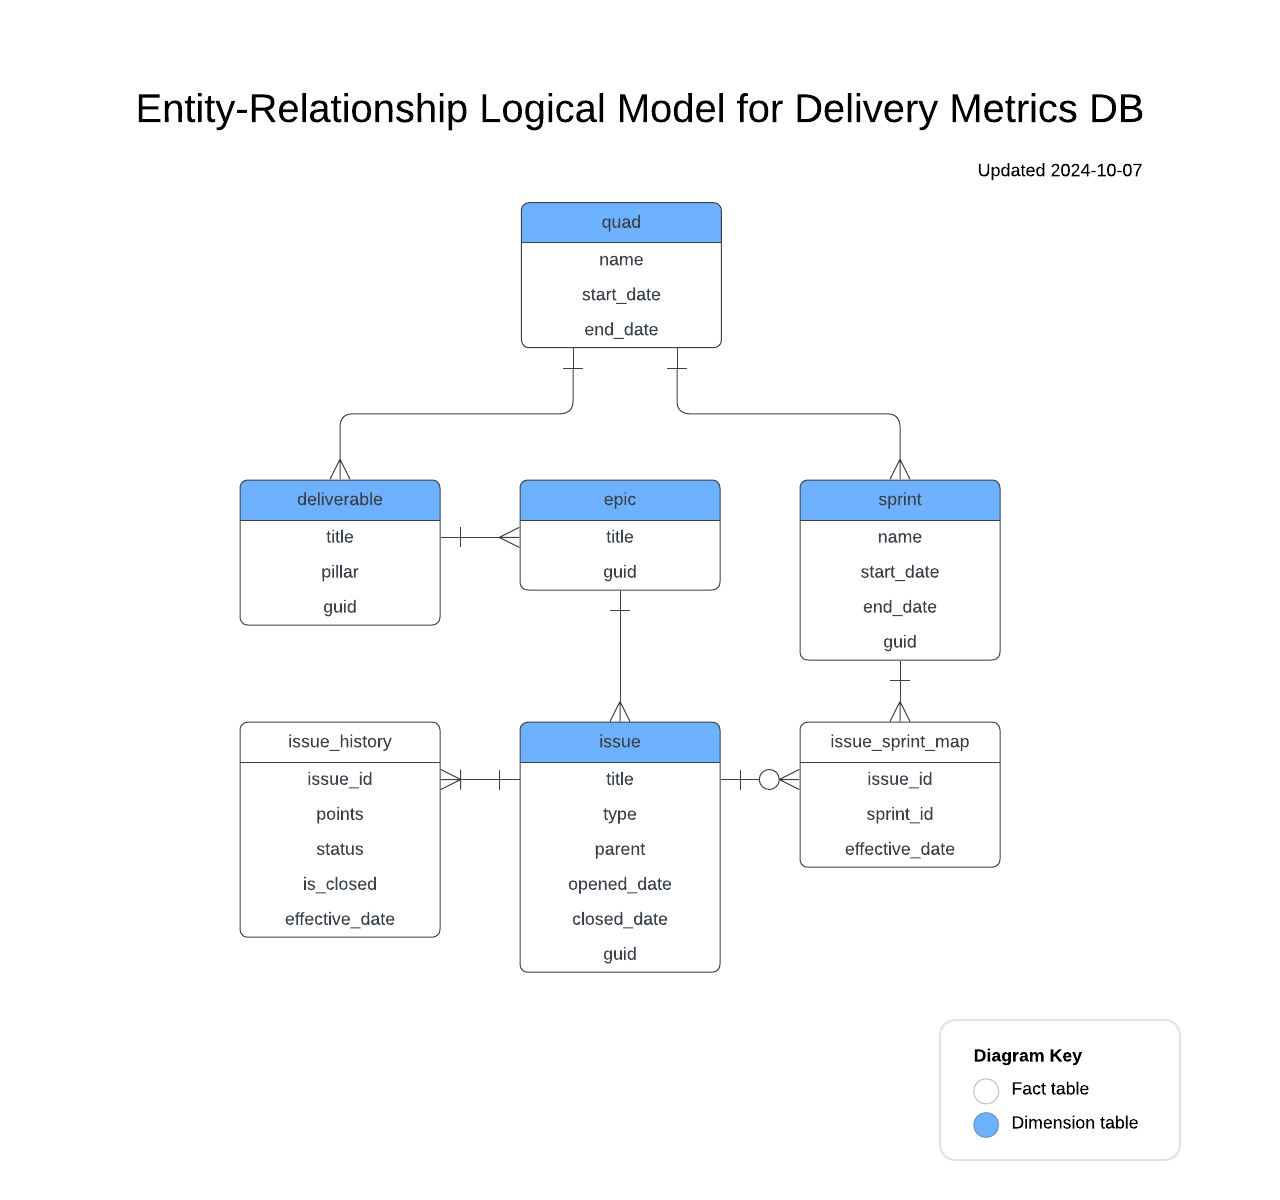
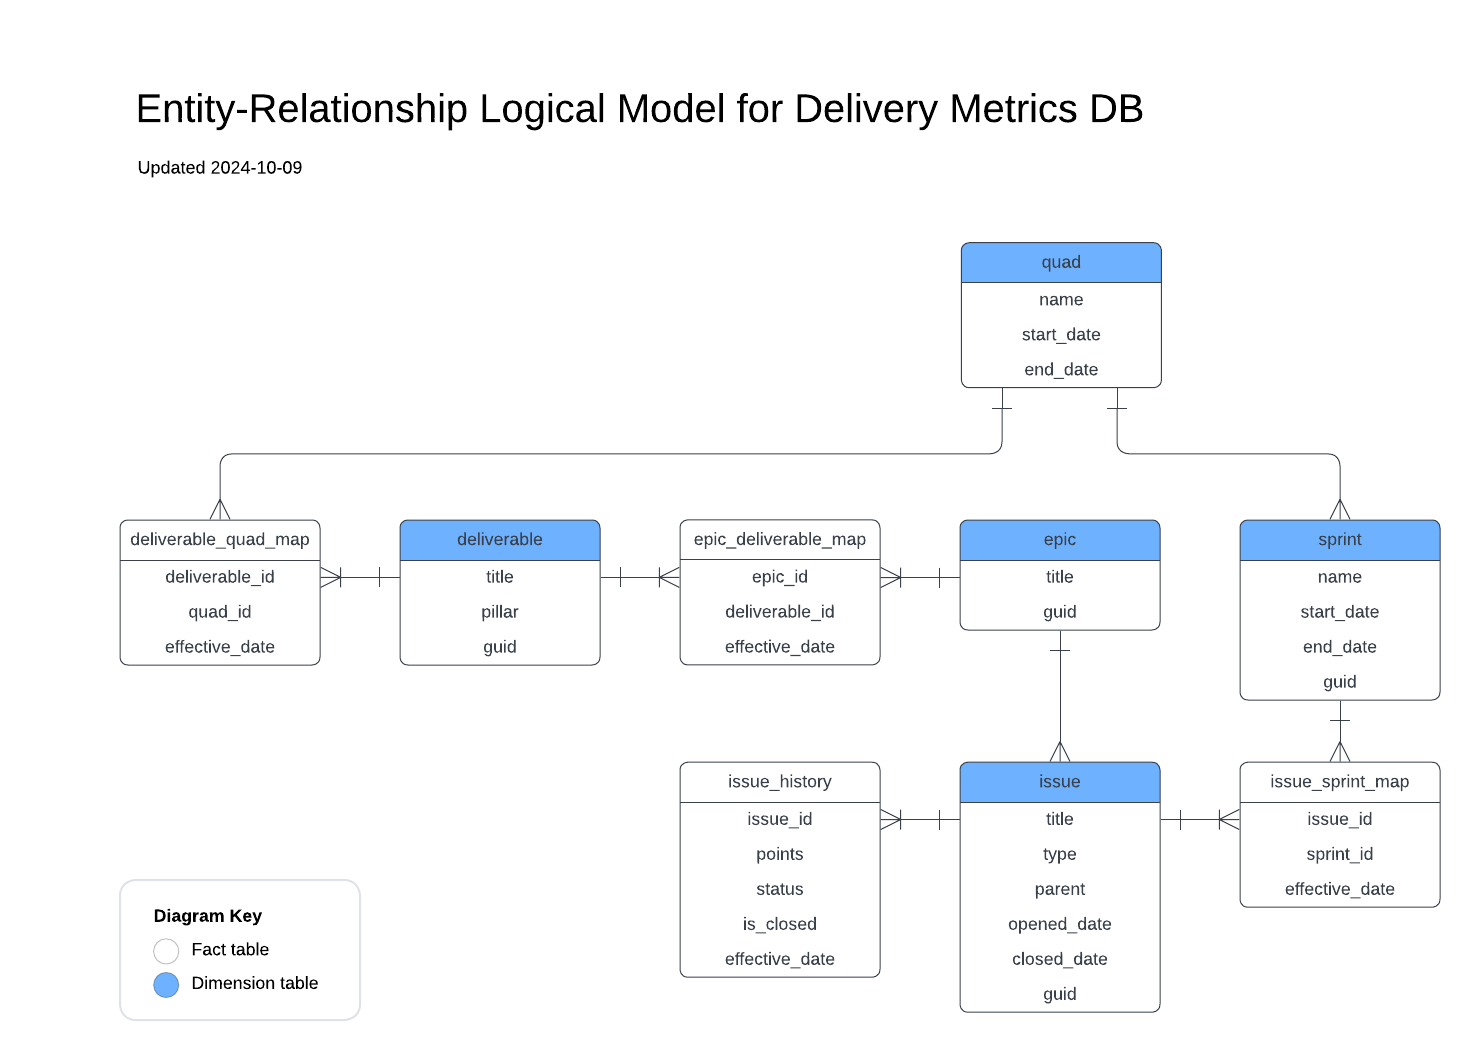
created fact tables for epic-deliverable and deliverable-quad relationships; extended model classes accordingly

diff --git a/delivery-metrics/src/delivery_metrics_deliverable_model.py b/delivery-metrics/src/delivery_metrics_deliverable_model.py
@@ -8,15 +8,31 @@ class DeliveryMetricsDeliverableModel(DeliveryMetricsModel):
 		if not isinstance(deliverable, dict):
 			return None
 
+		# get values needed for sql statement
 		guid = deliverable.get('guid')
 		title = deliverable.get('title')
 		pillar = deliverable.get('pillar')
 		quad_id = deliverable.get('quad_id')
+		effective = self.getEffectiveDate()
 
-		sql = "insert into deliverable(guid, title, pillar, quad_id) values (?, ?, ?, ?) on conflict(guid) do update set (title, pillar, quad_id, t_modified) = (?, ?, ?, current_timestamp) returning id"
-		data = (guid, title, pillar, quad_id, title, pillar, quad_id)
-		row_id = self.execute(sql, data)
+		# get cursor to keep open across transactions
+		cursor = self.cursor()
 
-		return row_id
+		# insert into dimension table: deliverable
+		sql_dim = "insert into deliverable(guid, title, pillar) values (?, ?, ?) on conflict(guid) do update set (title, pillar, t_modified) = (?, ?, current_timestamp) returning id"
+		data_dim = (guid, title, pillar, title, pillar)
+		deliverable_id = self.executeWithCursor(cursor, sql_dim, data_dim)
+
+		# insert into fact table: deliverable_quad_map
+		sql_fact = "insert into deliverable_quad_map(deliverable_id, quad_id, d_effective) values (?, ?, ?) on conflict(deliverable_id, d_effective) do update set (quad_id, t_modified) = (?, current_timestamp) returning id"
+		data_fact = (deliverable_id, quad_id, effective, quad_id)
+		map_id = self.executeWithCursor(cursor, sql_fact, data_fact)
+
+		# close cursor
+		cursor.close()
+
+		return map_id
+
+
 
 

diff --git a/delivery-metrics/src/delivery_metrics_epic_model.py b/delivery-metrics/src/delivery_metrics_epic_model.py
@@ -8,14 +8,27 @@ class DeliveryMetricsEpicModel(DeliveryMetricsModel):
 		if not isinstance(epic, dict):
 			return None
 
+		# get values needed for sql statement
 		guid = epic.get('guid')
 		title = epic.get('title')
 		deliverable_id = epic.get('deliverable_id')
+		effective = self.getEffectiveDate()
 
-		sql = "insert into epic(guid, title, deliverable_id) values (?, ?, ?) on conflict(guid) do update set (title, deliverable_id, t_modified) = (?, ?, current_timestamp) returning id"
-		data = (guid, title, deliverable_id, title, deliverable_id)
-		row_id = self.execute(sql, data)
+		# get cursor to keep open across transactions
+		cursor = self.cursor()
 
-		return row_id
+		# insert into dimension table: epic
+		sql_dim = "insert into epic(guid, title) values (?, ?) on conflict(guid) do update set (title, t_modified) = (?, current_timestamp) returning id"
+		data_dim = (guid, title, title)
+		epic_id = self.executeWithCursor(cursor, sql_dim, data_dim)
 
+		# insert into fact table: epic_deliverable_map
+		sql_fact = "insert into epic_deliverable_map(epic_id, deliverable_id, d_effective) values (?, ?, ?) on conflict(epic_id, d_effective) do update set (deliverable_id, t_modified) = (?, current_timestamp) returning id"
+		data_fact = (epic_id, deliverable_id, effective, deliverable_id)
+		map_id = self.executeWithCursor(cursor, sql_fact, data_fact)
+
+		# close cursor
+		cursor.close()
+
+		return map_id
 
